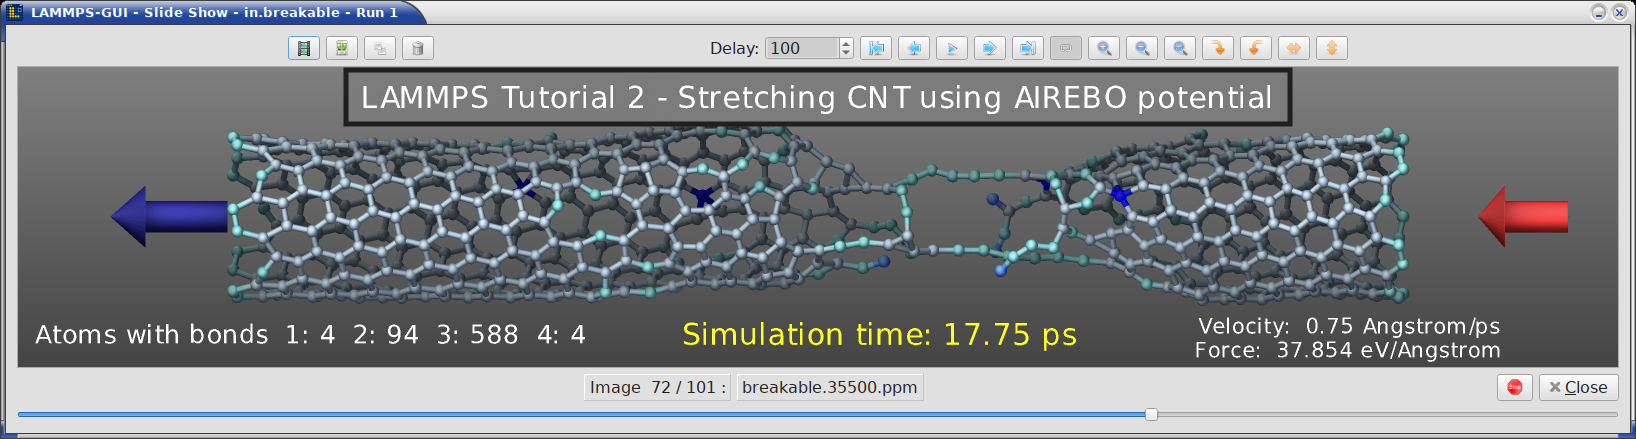
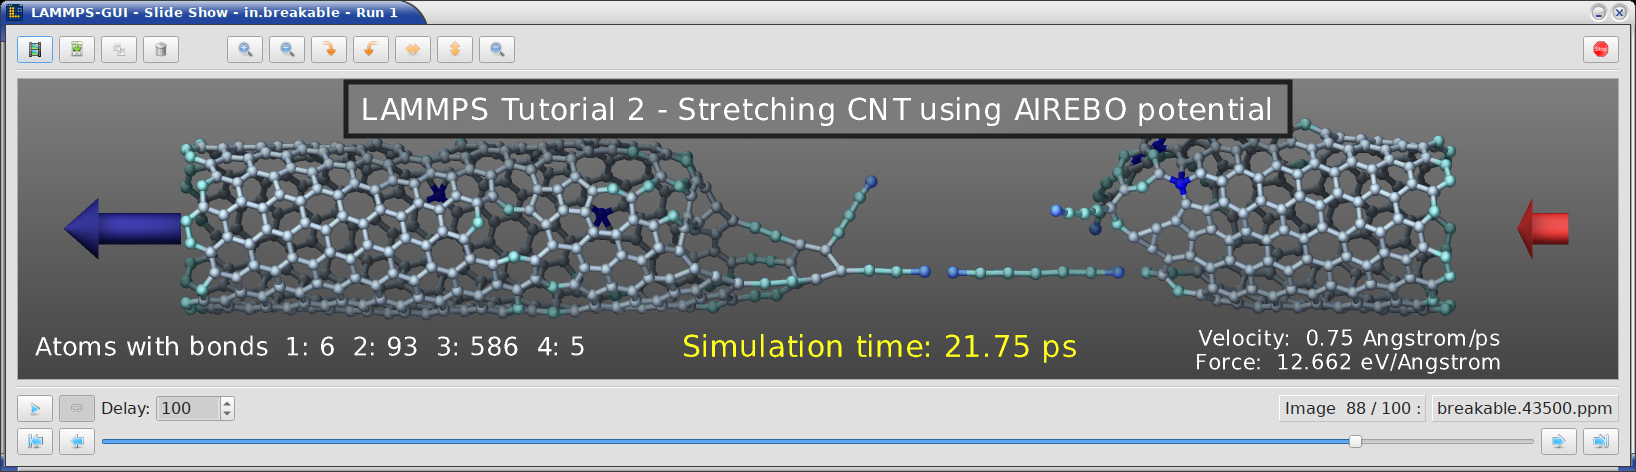
update slideshow layout some more and update corresponding docs

diff --git a/src/slideshow.cpp b/src/slideshow.cpp
@@ -82,7 +82,7 @@ SlideShow::SlideShow(const QString &fileName, QWidget *parent) :
     imageName->setTextInteractionFlags(Qt::TextSelectableByMouse);
 
     auto buttonhint = imageName->minimumSizeHint();
-    auto *stoprun = new QPushButton(QIcon(":/icons/process-stop.png"), "");
+    auto *stoprun   = new QPushButton(QIcon(":/icons/process-stop.png"), "");
     stoprun->setToolTip("Stop running simulation");
     buttonhint.setHeight(buttonhint.height() + LAYOUT_SPACING);
     buttonhint.setWidth(buttonhint.height() * 4 / 3);
@@ -140,6 +140,10 @@ SlideShow::SlideShow(const QString &fileName, QWidget *parent) :
     totrash->setMinimumSize(buttonhint);
     totrash->setMaximumSize(buttonhint);
 
+    auto *empty = new QLabel("");
+    empty->setMinimumSize(buttonhint);
+    empty->setMaximumSize(buttonhint);
+
     auto dsize = QFontMetrics(QApplication::font()).size(Qt::TextSingleLine, "Delay:100");
     // need some extra space on Windows
 #if defined(Q_OS_WIN32)
@@ -196,11 +200,6 @@ SlideShow::SlideShow(const QString &fileName, QWidget *parent) :
     zoomout->setToolTip("Zoom out by 10 percent");
     zoomout->setMinimumSize(buttonhint);
     zoomout->setMaximumSize(buttonhint);
-    auto *normal = new QPushButton(QIcon(":/icons/gtk-zoom-fit.png"), "");
-    normal->setToolTip("Reset zoom to normal");
-    normal->setMinimumSize(buttonhint);
-    normal->setMaximumSize(buttonhint);
-
     auto *imgrotcw = new QPushButton(QIcon(":/icons/object-rotate-right.png"), "");
     imgrotcw->setToolTip("Rotate displayed image 90<sup>o</sup> clockwise");
     imgrotcw->setMinimumSize(buttonhint);
@@ -217,6 +216,10 @@ SlideShow::SlideShow(const QString &fileName, QWidget *parent) :
     imgflipv->setToolTip("Mirror displayed image vertically");
     imgflipv->setMinimumSize(buttonhint);
     imgflipv->setMaximumSize(buttonhint);
+    auto *normal = new QPushButton(QIcon(":/icons/gtk-zoom-fit.png"), "");
+    normal->setToolTip("Reset zoom to normal");
+    normal->setMinimumSize(buttonhint);
+    normal->setMaximumSize(buttonhint);
 
     connect(tomovie, &QPushButton::released, this, &SlideShow::movie);
     connect(toimage, &QPushButton::released, this, &SlideShow::save_current_image);
@@ -232,24 +235,25 @@ SlideShow::SlideShow(const QString &fileName, QWidget *parent) :
     connect(goloop, &QPushButton::released, this, &SlideShow::loop);
     connect(zoomin, &QPushButton::released, this, &SlideShow::zoomIn);
     connect(zoomout, &QPushButton::released, this, &SlideShow::zoomOut);
-    connect(normal, &QPushButton::released, this, &SlideShow::normalSize);
     connect(imgrotcw, &QPushButton::released, this, &SlideShow::do_image_rotate_cw);
     connect(imgrotccw, &QPushButton::released, this, &SlideShow::do_image_rotate_ccw);
     connect(imgfliph, &QPushButton::released, this, &SlideShow::do_image_flip_h);
     connect(imgflipv, &QPushButton::released, this, &SlideShow::do_image_flip_v);
+    connect(normal, &QPushButton::released, this, &SlideShow::normalSize);
 
     toolsLayout->addWidget(tomovie, 1);
     toolsLayout->addWidget(toimage, 1);
     toolsLayout->addWidget(toclip, 1);
     toolsLayout->addWidget(totrash, 1);
+    toolsLayout->addWidget(empty);
     toolsLayout->addWidget(dummy);
     toolsLayout->addWidget(zoomin, 1);
     toolsLayout->addWidget(zoomout, 1);
-    toolsLayout->addWidget(normal, 1);
     toolsLayout->addWidget(imgrotcw, 1);
     toolsLayout->addWidget(imgrotccw, 1);
     toolsLayout->addWidget(imgfliph, 1);
     toolsLayout->addWidget(imgflipv, 1);
+    toolsLayout->addWidget(normal, 1);
     toolsLayout->addSpacerItem(
         new QSpacerItem(10, 10, QSizePolicy::Expanding, QSizePolicy::Minimum));
     toolsLayout->addWidget(stoprun);
@@ -568,8 +572,11 @@ void SlideShow::zoomOut()
 
 void SlideShow::normalSize()
 {
-    scaleFactor = 1.0;
-    scaleImage(1.0);
+    scaleFactor   = 1.0;
+    imageRotation = 0;
+    imageFlipH    = false;
+    imageFlipV    = false;
+    loadImage(current);
 }
 
 void SlideShow::scaleImage(double factor)
@@ -605,24 +612,28 @@ void SlideShow::do_image_rotate_cw()
 {
     imageRotation = (imageRotation + 90) % 360;
     applyImageTransform();
+    adjustWindowSize();
 }
 
 void SlideShow::do_image_rotate_ccw()
 {
     imageRotation = (imageRotation + 270) % 360;
     applyImageTransform();
+    adjustWindowSize();
 }
 
 void SlideShow::do_image_flip_h()
 {
     imageFlipH = !imageFlipH;
     applyImageTransform();
+    adjustWindowSize();
 }
 
 void SlideShow::do_image_flip_v()
 {
     imageFlipV = !imageFlipV;
     applyImageTransform();
+    adjustWindowSize();
 }
 
 void SlideShow::applyImageTransform()

diff --git a/doc/visualization.rst b/doc/visualization.rst
@@ -163,9 +163,9 @@ The **menu bar row** has:
      additional file formats beyond those natively supported by the Qt
      library become available.
    - **Copy Image** (`Ctrl-C`): Copy the rendered image to the clipboard
-     for pasting into another application.  This requires support from
-     the receiving applications, but many applications like document
-     editors or web browsers are.
+     for pasting it into another application.  This requires support
+     from the receiving applications, but many applications like
+     document editors or web browsers are.
    - **Copy dump image command** (`Ctrl-D`): Copy the current `dump image
      <https://docs.lammps.org/dump_image.html>`_ and `dump_modify
      <https://docs.lammps.org/dump_image.html>`_ commands to the clipboard
@@ -648,15 +648,18 @@ Image Slide Show
 .. index:: movie export
 .. index:: image export
 
-By default, if the LAMMPS input contains a `dump image
-<https://docs.lammps.org/dump_image.html>`_ command, a "Slide Show"
-window opens which loads and displays the images created by LAMMPS as
-they are written.  This is a convenient way to visually monitor the
-progress of the simulation.  From the slide show window the following
-global keyboard shortcuts are supported: `Ctrl-W`: close window,
-`Ctrl-Q`: quit application, `Ctrl-/`: stop running simulation.  Other
-shortcuts are connected to some of the controls and listed in their
-documentation below.
+When running a LAMMPS input containing a `dump image
+<https://docs.lammps.org/dump_image.html>`_ command with LAMMPS-GUI, the
+"Slide Show" window opens to load and display the images created by
+LAMMPS as they are written.  This is a convenient way to visually
+monitor the progress of the simulation.  It also can be used as an
+effective way to refine visualizations created with the :ref:`Snapshot
+Image Viewer <snapshot_viewer>`.
+
+From the slide show window the following global keyboard shortcuts are
+supported: `Ctrl-W`: close window, `Ctrl-Q`: quit application, `Ctrl-/`:
+stop running simulation.  Other keyboard shortcuts are connected to some
+of the controls and listed in their documentation below.
 
 .. image:: JPG/lammps-gui-slideshow.png
    :align: center
@@ -666,54 +669,46 @@ Slide show controls
 
 .. index:: slideshow controls
 
-The toolbar at the bottom of the Slide Show window provides the
-following controls, organized from left to right:
+There are controls and displays above and below the image.  If you are
+uncertain about the function of a specific button, you can place the
+cursor on top of it and a descriptive tooltip will appear.
 
-**Export and file operations** (left group):
+The **toolbar** at the top of the Slide Show window provides the
+following controls, organized from left to right:
 
 - **Export to movie** (`Ctrl-E`): Export the entire image sequence to a
   movie file or `animated GIF file
   <https://en.wikipedia.org/wiki/GIF#Animated_GIF>`_.  This requires
-  either the `FFmpeg program <https://ffmpeg.org/>`_ or the `ImageMagick
-  software <https://imagemagick.org/>`_ to be installed.  Supported
-  output formats include MP4, MKV, AVI, MPG, MPEG, and animated GIF.
-  The file format is determined by the file name extension.  Any active
-  image transformations (rotation, mirroring) are applied to the
-  exported movie.
-- **Save current image** (`Ctrl-S`): Save the currently displayed image to a file,
-  including any applied transformations (rotation, mirroring).
-  The file format is inferred from the file name extension.  When the
-  `ImageMagick software <https://imagemagick.org/>`_ is installed,
-  additional file formats beyond those natively supported by the Qt
-  library become available.
-- **Copy to clipboard** (`Ctrl-C`): Copy the current image to the system clipboard.
+  that either the `FFmpeg program <https://ffmpeg.org/>`_ or the
+  `ImageMagick software <https://imagemagick.org/>`_ are installed.
+  Supported output formats include MP4, MKV, AVI, MPG, MPEG, WEBM, and
+  animated GIF.  The file format is determined by the file name
+  extension.  Any active image transformations (rotation, mirroring, see
+  below) are applied to the exported movie.
+- **Save current image** (`Ctrl-S`): Save the currently displayed image
+  to a file, including any applied transformations (rotation, mirroring,
+  see below).  The file format is inferred from the file name extension.
+  When the `ImageMagick software <https://imagemagick.org/>`_ is
+  installed, additional file formats beyond those natively supported by
+  the `Qt library <https://doc.qt.io/qt-6/qtimageformats-index.html>`_
+  become available.
+- **Copy to clipboard** (`Ctrl-C`): Copy the current image to the system
+  clipboard for pasting it into another application.  This requires
+  support from the receiving applications, but many applications like
+  document editors or web browsers are.
 - **Delete all images**: Remove all image files associated with the
   slide show.  Since the number of image files can be large for long
   simulations, this provides a safe way to clean up the working
-  directory without risk of accidentally deleting other files.
+  directory without risk of accidentally deleting other files.  This
+  will, however, only delete the images of the last run.  If that was
+  stopped before completion or the output filename has changed, older
+  images created by previous runs will not be deleted.
 
-**Playback controls** (right group):
-
-- **Delay**: Set the delay in milliseconds between frames
-  during animation playback.
-
-- **First**: Jump to the first image in the sequence.
-- **Previous**: Step back to the previous image.
-- **Play**: Start playing the animation from the current frame to the
-  last frame.
-- **Next**: Step forward to the next image.
-- **Last**: Jump to the last image in the sequence.
-- **Loop**: Toggle continuous looping of the animation.  When enabled,
-  playback wraps around from the last image back to the first.
-
-**Zoom controls**:
-
-- **Zoom in**: Increase the displayed image size by 10 percent.
-- **Zoom out**: Decrease the displayed image size by 10 percent.
-- **Reset zoom**: Reset the display to the original image size.
-
-**Image transformation controls** (right group):
-
+- **Zoom in**: Increase the displayed image size by scaling it up. Every
+  click on the button increases the zoom factor by 10 percent.
+- **Zoom out**: Decrease the displayed image size by scaling it
+  down. Every click on the button decreases the zoom factor by 10
+  percent until a minimum zoom factor of 0.1.
 - **Rotate clockwise**: Rotate the displayed image 90 degrees clockwise.
 - **Rotate counter-clockwise**: Rotate the displayed image 90 degrees
   counter-clockwise.
@@ -721,12 +716,28 @@ following controls, organized from left to right:
   axis.
 - **Mirror vertically**: Flip the displayed image along the horizontal
   axis.
+- **Reset image**: Reset the displayed image to the original image. This
+  reverts all zoom, rotate, and mirror operations.
+
+- **Stop Simulation** (`Ctrl-/`): Stop a running simulation.
 
 These image transformations are useful when the simulation images need
-to be adjusted for presentation purposes.  Transformations are also
-applied when exporting images or movies.
+to be adjusted for presentation purposes.  The same transformations are
+also applied when exporting images or movies.
 
-A **scroll bar** below the image area allows selecting any individual
-frame in the sequence by position.  If you are uncertain about the
-function of a specific button, you can place the cursor on top of it and
-a descriptive tooltip will appear.
+The **playback controls** below the image allow to select the displayed
+image and control the slideshow settings:
+
+- **Play**: Start playing the animation from the current frame to the
+  last frame.
+- **Loop**: Toggle continuous looping of the animation.  When enabled,
+  playback wraps around from the last image back to the first.
+- **Delay**: Set the delay in milliseconds between frames
+  during animation playback.
+
+- **First**: Jump to the first image in the sequence.
+- **Previous**: Step back to the previous image.
+- The **slider control** allows selecting a frame in the image sequence
+  by by moving the slider position.
+- **Next**: Step forward to the next image.
+- **Last**: Jump to the last image in the sequence.
